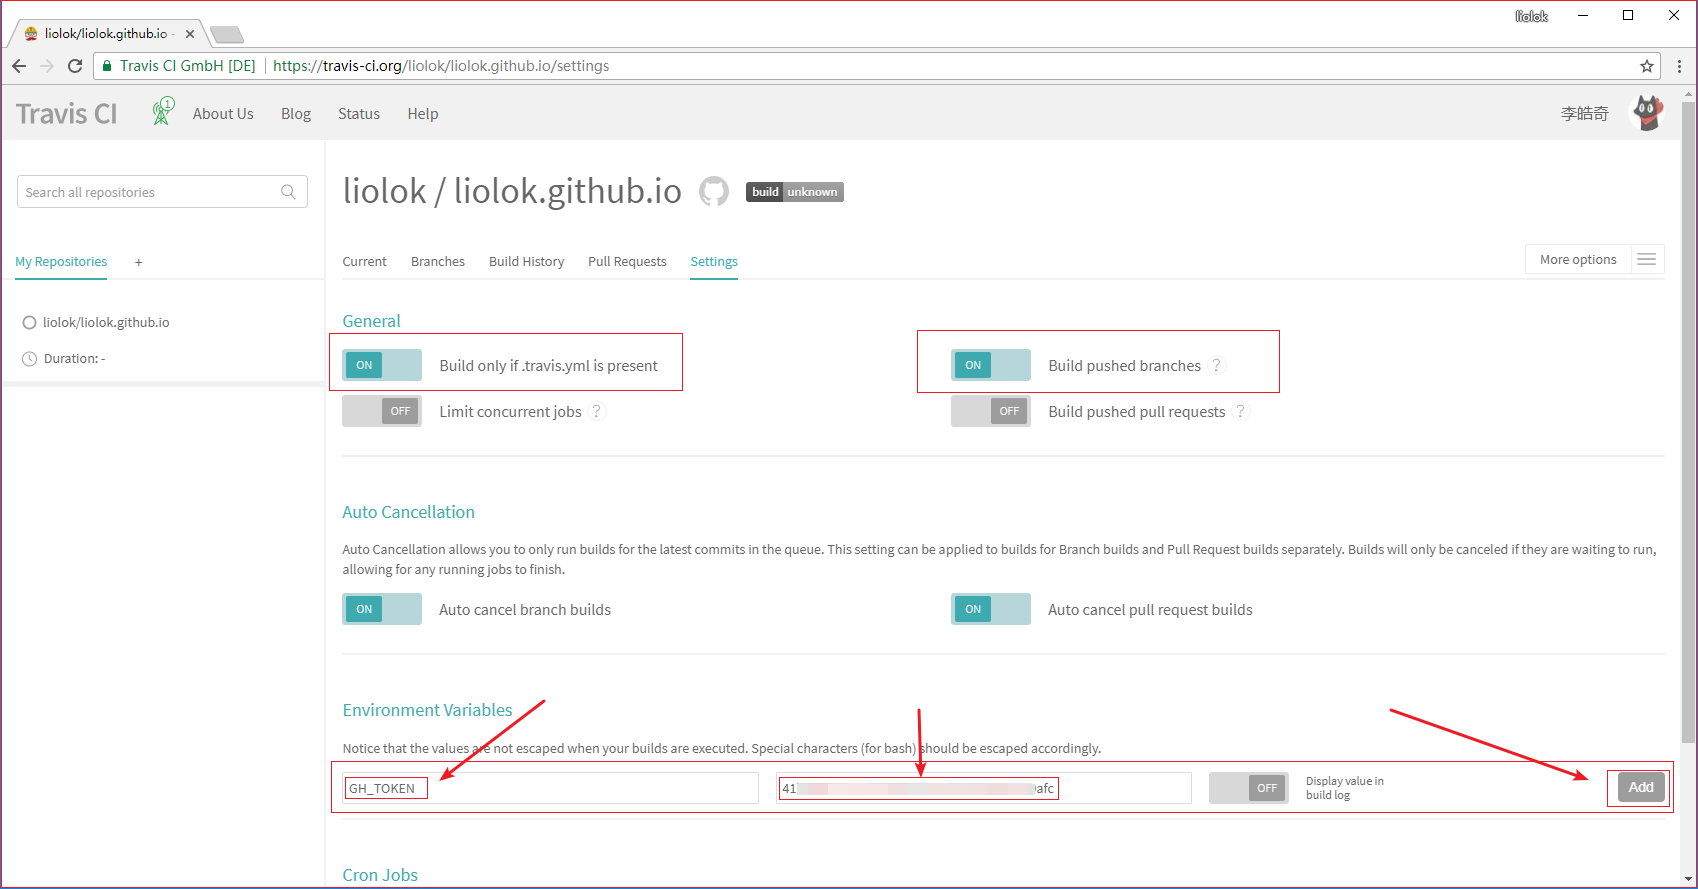
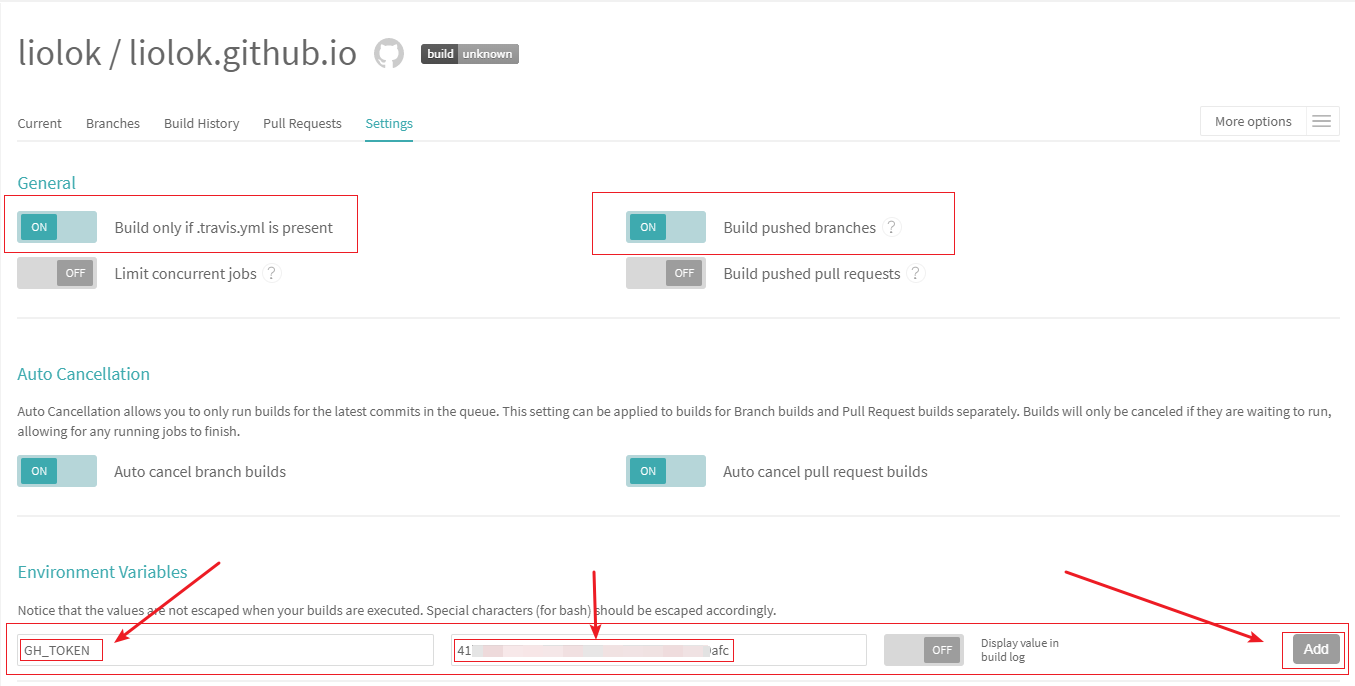
完成文章 "Hexo + Travis CI 博客管理"

diff --git a/source/_posts/2018-05-25-Hexo-Travis-CI.md b/source/_posts/2018-05-25-Hexo-Travis-CI.md
@@ -5,38 +5,126 @@ description: <center>Hexo 博客版本控制 & Travis CI 自动部署</center>
 date: 2018-05-25 09:20:33
 ---
 
-# 博客的版本控制
+# 博客的部署流程
 
-## 疑惑
+## 最初的基本流程
 
-<center>[博客搭建](https://liolok.github.io/2018/04/14/Hexo-GitHub-Pages/)一文中, 本地跟云端到底都存了些啥?</center>
+[博客搭建](https://liolok.github.io/2018/04/14/Hexo-GitHub-Pages/)一文中写过从本部署到云端, 这两者分别对应着什么呢?
 
-- 本地是完整的博客实例, 里面有我们写的md格式的文章, 有文章引用的资源比如图片, 还有我们对博客以及主题的各种配置文件.
-- 云端的GitHub Pages对应的是个人主页专用版本库(repository), 默认分支master里面是托管的静态网站文件, html的, css的, 最终上线的博客就是由这些文件所构成.
+- 本地的博客实例, 里面有我们用markdown写的文章, 有文章引用的资源比如图片, 还有博客以及主题的各种配置文件. 我觉得这些可以叫做"博客源码".
+- 云端的GitHub Repository, 以`username.github.io`命名, 默认分支master里面是托管给GitHub Pages的静态网站文件. 我觉得可以叫做"博客站点".
 
-按照之前搭建的流程, 我们在本地目录创建一个Hexo框架的博客实例, 然后进行配置与写作, 本地预览调试觉得没问题可以上线博客了, 再将博客生成静态网站文件并部署到GitHub的repo上. 不出意外的话, 很快就能看到网站已经可以访问了.
+按照之前的流程, 我们在本地目录创建一个Hexo框架的博客实例, 然后进行配置与写作, 本地预览调试觉得没问题可以上线博客了, 再将博客生成静态网站文件并部署到GitHub的repo上. 不出意外的话, 很快就能看到网站已经可以访问了.
 
-用了半个月发现这个流程确实有问题, 这就涉及到Git的本质 ---- 版本控制. 通过每次commit及其message, 我们可以看到博客的变迁过程, 也可以在出了错误的时候吃一吃后悔药, 这些都是版本控制的效果.
+![旧的流程](2018-05-25-Hexo-Travis-CI\旧的流程.png)
 
-我想那肯定要好好利用啊, 正好学习学习Git以及GitHub的基本操作.
+> 上图中的部署(deploy)其实就是hexo封装好的`git push`, 将生成好的静态文件目录`./public`推到配置好的repo相应的branch上, 参见前文中的[修改博客的部署配置](https://liolok.github.io/2018/04/14/Hexo-GitHub-Pages/#修改博客的部署配置)一节.
 
-结果我更迷茫了. 每次对博客做了改动, 小心翼翼的`hexo d -g -m "这是一点微小的更新说明blabla"`, 然后在repo的commits记录里查看时, 却发现在文件上根本看不到自己的改动, 出现在眼前的是经由hexo渲染生成的html和css, 我也看不懂啊, 这就好比我写了C的代码, 提交上去之后想看看代码变化, 却发现全是汇编甚至机器码, 这就很尴尬.
+用了半个月发现这个流程确实有问题, 这就涉及到Git的本质 ---- **版本控制**. 通过每次commit及其message, 我们可以看到博客的变迁过程, 也可以在出了错误的时候吃一吃后悔药, 这些都是版本控制的效果.
 
-## 答案
+我想那肯定要好好利用啊, 正好学习学习Git以及GitHub的基本操作. 结果我更迷茫了:
 
-答案就是, 生成的静态站点文件什么的, 就乖乖放在repo的master分支好了, GitHub Pages会帮你把后面的事情做好. 而版本控制的对象, 不应该是master分支里的静态站点, 而是博客实例.
+每次对博客做了改动, 小心翼翼地`hexo d -g -m "更新说明"`, 然后在repo的commits记录里查看时, 却发现根本看不到自己对于博客**配置或者文章**的改动, 出现在眼前的是经由Hexo和exT渲染生成的HTML和CSS这些**静态文件**. 我就一个博客框架用户, 也看不懂啊. 这就好比我写了C的代码, 提交上去之后想看看代码变化, 却发现全是汇编甚至机器码. 这不是我想要的"**版本控制**".
 
-创建博客源码分支source, 将本地的博客实例push上去.
+## 目前的较新流程
 
-未完待续.
+生成的静态站点文件什么的, 就照旧放在repo的master分支好了, GitHub Pages会帮你把后面的事情做好. 而版本控制的对象, 不应该是master分支里的静态站点, 而是博客实例, 这里面才是实际的博客配置和文章, 我们关心的是这些.
 
-# 配置Travis-CI
+那么如何实现呢? 我参考了很多博文和讨论, 看完了八仙过海之后, 我个人的做法是: 把博客实例整个push到repo的新建分支source, 并使用Travis CI将source分支里的博客实例自动部署到master分支. 这样一来, 重心放在博客本身上, 后面的生成静态文件和部署, 交给Travis CI去做, 我们只看结果, 没毛病就不问过程.
 
-![Configure-Travis-CI (0)](2018-05-25-Hexo-Travis-CI/Configure-Travis-CI-0.png)
+![较新的流程](2018-05-25-Hexo-Travis-CI\较新的流程.png)
 
-![Configure-Travis-CI (1)](2018-05-25-Hexo-Travis-CI/Configure-Travis-CI-1.png)
+# 博客实例的版本控制
 
-![Configure-Travis-CI (2)](2018-05-25-Hexo-Travis-CI/Configure-Travis-CI-2.png)
+## 创建 source 分支
+
+```bash
+# 克隆项目到本地目录
+git clone https://github.com/用户名/用户名.github.io.git
+# 进入项目
+cd 用户名.github.io/
+# 创建并切换到 source 分支
+git checkout -b source
+```
+
+保留目录下的.git文件夹, 删除其他文件, 将之前已创建好的博客实例迁移至`用户名.github.io`目录下, 继续后面的步骤.
+
+## 添加 gitignore 列表
+
+创建/修改`.gitignore`文件
+```
+node_modules/ 
+public/
+db.json
+```
+> `node_modules`目录是hexo博客实例的npm环境依赖, 据说是质量比黑洞还大的物体(笑). 我们选择忽略它, 反正最后到了Travis那里也会重新跑一遍`npm install`, 这些东西本来也会删了重来, 没有同步的意义.
+> 
+> `public`目录是hexo生成的静态文件, `db.json`是数据库文件, 同理, 由于Travis构建流程中会执行`hexo clean`, 都不需要同步.
+
+## 配置主题子模块
+
+关于博客实例根目录下themes中的主题有两种做法:
+
+1. 将主题打包下载并解压到themes对应子目录下
+2. 使用`git clone`将主题拉取到themes对应子目录下
+
+> 如选择第一种方式, 则不需要配置git的子模块. 如需更新主题, 可以定期打包下载新版本并手动解决冲突, 使用新的特性同时保留自定义的配置.
+
+我还是选择更git一点, 使用子模块功能实现主题甚至主题插件的添加及更新.
+
+### fork 主题项目
+
+比如我选择使用NexT主题, 就需要先去其项目主页[theme-next/hexo-theme-next](https://github.com/theme-next/hexo-theme-next)进行fork, 得到一个[liolok/hexo-theme-next](https://github.com/liolok/hexo-theme-next). 这样一来, 我就可以针对我的需求定制主题的同时, 通过git更新主题.
+
+### 添加子模块
+
+创建/修改`.gitmodules`文件
+
+```
+[submodule "themes/next"]
+    path = themes/next
+    url = https://github.com/liolok/hexo-theme-next
+```
+
+### 设置上游项目
+
+```bash
+cd themes/next/
+git remote add upsteam https://github.com/theme-next/hexo-theme-next
+```
+
+
+# Travis CI 自动部署
+
+## GitHub 账号的 Personal Access Token
+
+> Travis CI 需要的 Token 才能有相应的权限替我们自动完成特定的操作.
+
+进入账号的设置(`settings`), 左侧菜单最下方的`Developer settings`选项, 继续选择`Personal access tokens`, 通过右上方的`Generate new token`生成一个Travis CI自动部署博客专用的Token.
+
+![生成Token](2018-05-25-Hexo-Travis-CI\生成Token.png)
+
+如上图所示, 填写Token用途后, 选中`repo`权限即可, 通过下方(权限列表略长, 往下翻页即可)的`Generate token`按钮完成生成, 并及时复制Token, 妥善保管.
+
+![复制Token](2018-05-25-Hexo-Travis-CI\复制Token.png)
+
+## Travis CI 线上配置
+
+### 使用GitHub账号登入
+![使用GitHub账号登入Travis CI](2018-05-25-Hexo-Travis-CI/Configure-Travis-CI-0.png)
+<center>使用GitHub账号登入Travis CI</center>
+
+### 开启repo的自动构建
+![开启repo的自动构建并进入详细设置](2018-05-25-Hexo-Travis-CI/Configure-Travis-CI-1.png)
+<center>开启repo的自动构建并进入详细设置</center>
+
+### 详细设置及添加Token
+![详细设置及添加Token](2018-05-25-Hexo-Travis-CI/Configure-Travis-CI-2.png)
+<center>详细设置及添加Token</center>
+
+> 因为repo下有两个分支: master和source, 开启上图中的`Build only if .travis.yml is present`选项, 保证不包含.travis.yml配置文件的master分支不会被监测变动以致循环构建.
+
+## 构建流程配置
 
 博客实例根目录下我所使用的.travis.yml配置:
 
@@ -68,7 +156,7 @@ after_script:
 
 branches:
   only:
-    - source  #只监测master之外新增的source即博客源码分支
+    - source  #只监测master之外新增的source分支
 env:
  global:
    - GH_REF: github.com/username/username.github.io.git  #设置GH_REF
@@ -79,3 +167,20 @@ cache:
 
 ```
 
+> - 从上面的配置文件中可以看到, Travis CI的构建流程中并没有使用`hexo d`这一命令, 而是在`hexo g`生成静态文件后直接将整个静态文件夹全新push到master分支, 这也体现了前面说到的"无需对站点文件进行版本控制".
+> - 由于不再需要`hexo d`命令, 我们完全可以把博客实例中的hexo-deployer-git插件及其相关的部署配置全部精简掉. 这样也能确保本地的博客实例不会误操作命令.
+
+# 参考资料
+
+- [使用hexo，如果换了电脑怎么更新博客？](https://www.zhihu.com/question/21193762)参考了大多数回答里的做法, 决定采用同repo下双branch的做法进行博客版本控制, 并使用Travis CI实现自动部署.
+
+## 子模块相关
+
+- [Hexo博客源码管理 - 使用Git子模块 | 辛未羊的博客](https://panqiincs.me/2017/08/06/hexo-blog-code-management/#使用Git子模块)
+- [手动配置Git的Submodule | Strago's Corner](http://blog.strago.xin/2016/GitSubmodule/)
+- [坑3： travis CI自动构建部署之后，博客页面空白，什么也没有 | CodingLife](http://magicse7en.github.io/2016/03/27/travis-ci-auto-deploy-hexo-github/#%E5%9D%913%EF%BC%9A-travis-CI%E8%87%AA%E5%8A%A8%E6%9E%84%E5%BB%BA%E9%83%A8%E7%BD%B2%E4%B9%8B%E5%90%8E%EF%BC%8C%E5%8D%9A%E5%AE%A2%E9%A1%B5%E9%9D%A2%E7%A9%BA%E7%99%BD%EF%BC%8C%E4%BB%80%E4%B9%88%E4%B9%9F%E6%B2%A1%E6%9C%89)
+
+## Travis CI 相关
+
+- [使用 Travis CI 持续构建 Hexo | neoFelhz's Blog](https://blog.nfz.moe/archives/hexo-auto-deploy-with-travis-ci.html), 参考了Travis线上配置选项以及source开启分支保护.
+- [使用Travis CI自动部署Hexo博客 | IT范儿](http://www.itfanr.cc/2017/08/09/using-travis-ci-automatic-deploy-hexo-blogs/#%E5%88%9B%E5%BB%BA-travis-yml-%E6%96%87%E4%BB%B6), 参考了其中最简单版本的`.travis.yml`配置文件, 不考虑对站点文件的版本控制.
